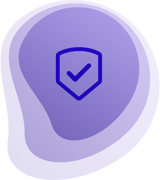
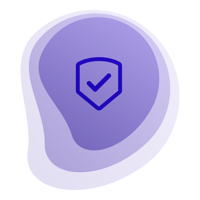
Update chapter images

diff --git a/src/templates/page/content.js b/src/templates/page/content.js
@@ -28,10 +28,9 @@ const ChapterDescription = styled.h4({
   color: colors.text2
 });
 
-const HeadingImage = styled.img({
-  width: '2em',
+const HeadingImage = styled.img(size('2.5em'), {
   margin: 0,
-  marginRight: '0.5em'
+  marginRight: '0.25em'
 });
 
 const Markdown = styled.div({
